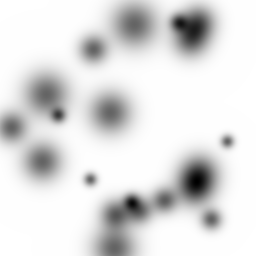
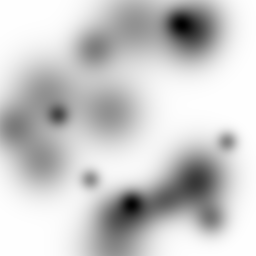
add moon walking

diff --git a/generate_moon_terrains.py b/generate_moon_terrains.py
@@ -1,22 +1,36 @@
 import numpy as np
 from PIL import Image
 
-def generate_moon_png(size=256, crater_count=20, seed=42):
+import numpy as np
+from PIL import Image
+
+def generate_moon_png(crater_size=0.3, crater_depth=0.02, size=256, crater_count=20, seed=42):
+ 
     rng = np.random.default_rng(seed)
     Z = np.zeros((size, size), dtype=np.float32)
-
     X, Y = np.ogrid[:size, :size]
+
     for _ in range(crater_count):
         cx, cy = rng.integers(0, size, 2)
-        r = rng.integers(size // 30, size // 8)
-        crater = np.exp(-((X - cx)**2 + (Y - cy)**2) / (2*(r/2)**2))
-        Z -= crater * 0.1
+        # ✅ 坑的半径由 crater_size 控制
+        r = int(rng.integers(size * crater_size / 4, size * crater_size))
+        crater = np.exp(-((X - cx)**2 + (Y - cy)**2) / (2 * (r / 2)**2))
+        # ✅ 坑的深度由 crater_depth 控制
+        Z -= crater * crater_depth
 
-    # 归一化到 0~255 并转灰度图
+    # 归一化到 [0,1]
     Z -= Z.min()
-    Z /= Z.max()
-    img = Image.fromarray((Z * 255).astype(np.uint8))
-    img.save("moon_height.png")
-    print("✅ Saved moon_height.png, shape:", Z.shape)
+    Z /= (Z.max() + 1e-8)
 
-generate_moon_png()
+    # 转成灰度图
+    img = Image.fromarray((Z * 255).astype(np.uint8))
+    img.save("unitree_go2/assets/moon_height.png")
+    print(f"Saved moon_height.png, shape={Z.shape}, "
+          f"crater_size={crater_size}, crater_depth={crater_depth}")
+
+# 示例使用：
+# 小而深的坑
+generate_moon_png(crater_size=0.2, crater_depth=0.04)
+
+# 大而浅的坑
+# generate_moon_png(crater_size=0.6, crater_depth=0.01)

diff --git a/test_controller.py b/test_controller.py
@@ -119,11 +119,25 @@ def simple_walk_demo(model_path):
     
     print("Starting walk demo...")
     print("Simulation will stop after 10 seconds\n")
-    
+    dog_id = mujoco.mj_name2id(model, mujoco.mjtObj.mjOBJ_BODY, "go2")
     with mujoco.viewer.launch_passive(model, data) as viewer:
         last_print = 0
-        
+
+
+
         while viewer.is_running() and data.time < max_simulation_time:
+
+
+                    
+            # get world coordinate
+            dog_pos = data.xpos[dog_id]
+
+            # camera setting
+            viewer.cam.lookat[:] = dog_pos             
+            viewer.cam.distance = 3.0                
+            viewer.cam.elevation = -10         
+            viewer.cam.azimuth = 180                   
+
             t = data.time
             
             # ==== PREPARE DATA ROW ====
@@ -218,7 +232,7 @@ def simple_walk_demo(model_path):
 
 if __name__ == "__main__":
     # Use the path from your code
-    base_path = "C:\\Users\\Bowen\\Desktop\\code\\ROB-GY_7863_Project"
-    model_path = f"{base_path}/unitree_go2/scene.xml"
+
+    model_path = f"unitree_go2/scene_moon.xml"
     
     simple_walk_demo(model_path)

diff --git a/main_train.py b/main_train.py
@@ -2,7 +2,6 @@ import mujoco
 import mujoco.viewer
 import numpy as np
 
-print(mujoco.__version__)
 # 1. 加载 XML 模型（例如 humanoid.xml）
 model = mujoco.MjModel.from_xml_path("unitree_go2/scene_moon.xml")
 
